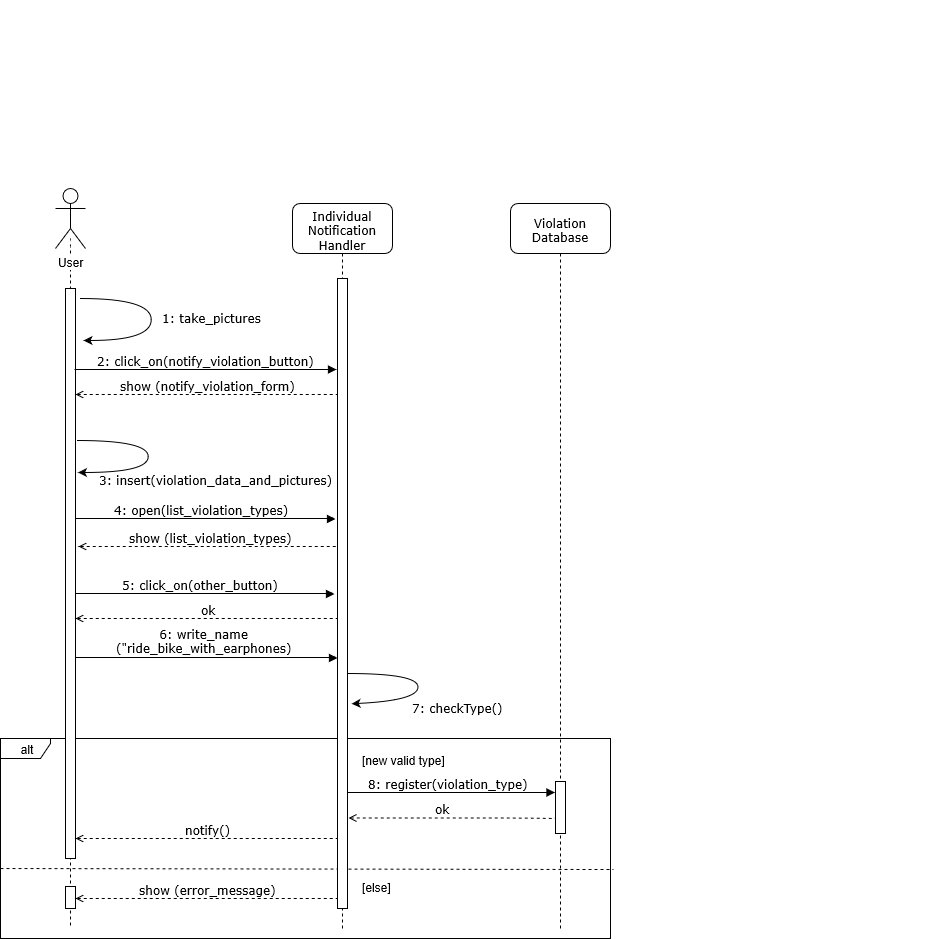
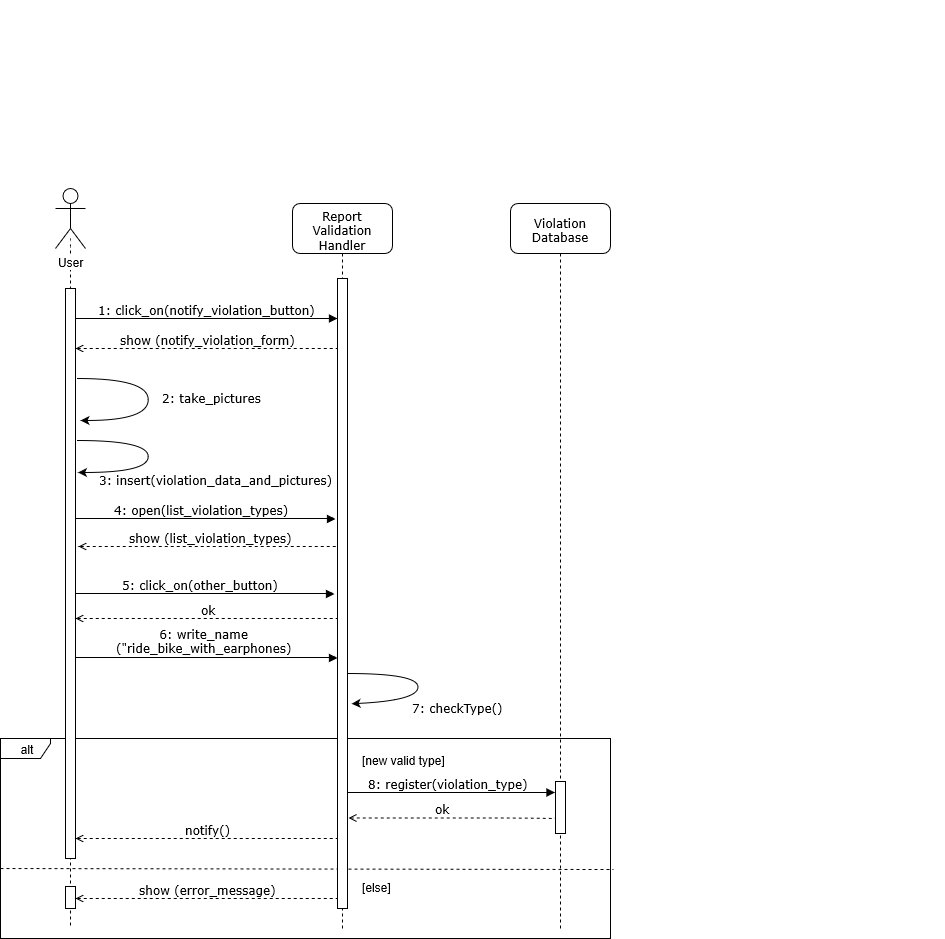
Aggiunta sequence diagrams e UML

Changed region(s): [[0.0921, 0.3088, 0.3376, 0.4324], [0.3376, 0.2162, 0.3989, 0.2471]]

diff --git a/RASD/Chapters/03-SpecificRequirements/02-FunctionalRequirements.tex b/RASD/Chapters/03-SpecificRequirements/02-FunctionalRequirements.tex
@@ -368,8 +368,13 @@
 \end{itemize}
 \begin{description}
     \item \textbf{Scenario 8} \newline
+        The system uses its own data, collected with reports of violation, and has the possibility to ask the municipality data about car 
+        accidents and violations in a specific area. This information is crossed to SafeStreets that integrates the given data with the information
+        already saved and verified. In this way the storage keeps track of the unsafe areas, that are identified as those with violations notified
+        by SafeStreets users, those with car accidents and damages provided by the municipality, and those areas that have both these 
+        information.
         
-    \item \textbf{Use case: Authorities provide unsafe areas identification}
+    \item \textbf{Use case: The system provides unsafe areas identification}
     \begin{center}
         \begin{tabular}{|p{3cm}|p{7cm}|}
             \multicolumn{2}{c}{\textbf{Unsafe areas identification}} \\
@@ -380,11 +385,15 @@
             \hline
             \textbf{Goals} & R8 \\
             \hline
-            \textbf{Entry conditions} &  \\
+            \textbf{Entry conditions} &  The system must select a specific area to identify\\
             \hline
             \textbf{Event flow} &
             \begin{enumerate}
-                \item TODO
+                \item The system queries verified and validated reports of SafeStreets about the selected area
+                \item $v$ violations are returned from reports
+                \item The system queries municipality about car accidents in the selected area
+                \item $a$ accidents are provided by the municipality
+                \item The system updates information regarding the selected area by marking the area unsafe if $m + v >$ 0
             \end{enumerate} \\
             \hline
             \textbf{Exit conditions} & New statistics have been saved by the system \\

diff --git a/RASD/Chapters/05-EffortSpent/03-Angelica.tex b/RASD/Chapters/05-EffortSpent/03-Angelica.tex
@@ -15,6 +15,7 @@
     General review & 1 \\
     Definitions, acronyms, abbreviations and document structure & 0.5 \\
     Traceability Matrix & 0.5 \\
-    Sequence Diagrams & 4 \\
+    Sequence Diagrams & 5 \\
+    UML & 2.5 \\
   \end{tabular}
 \end{table}
